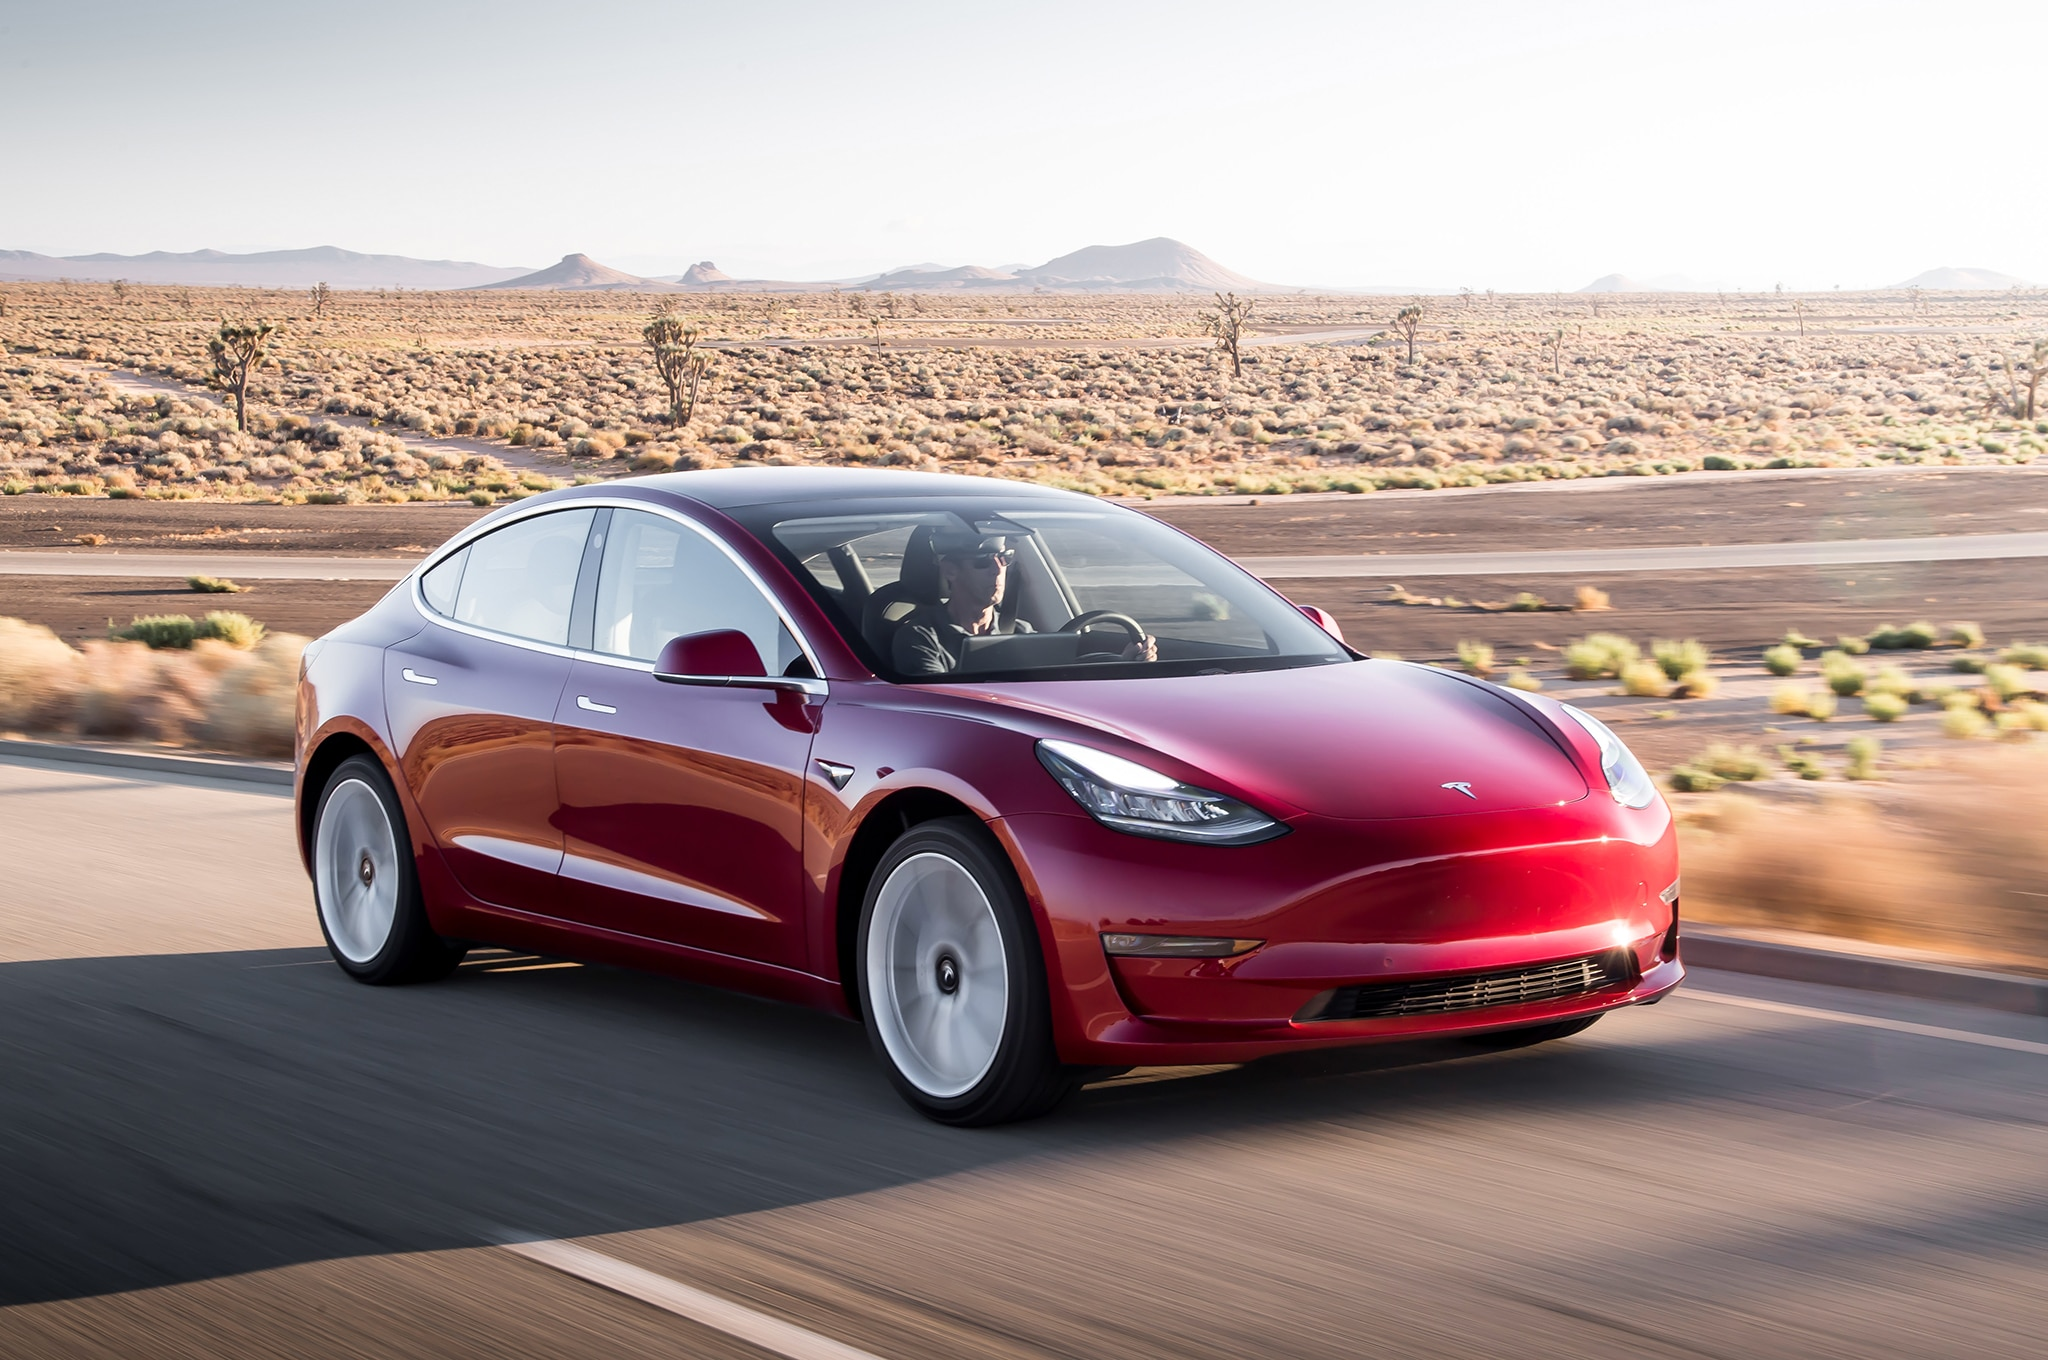
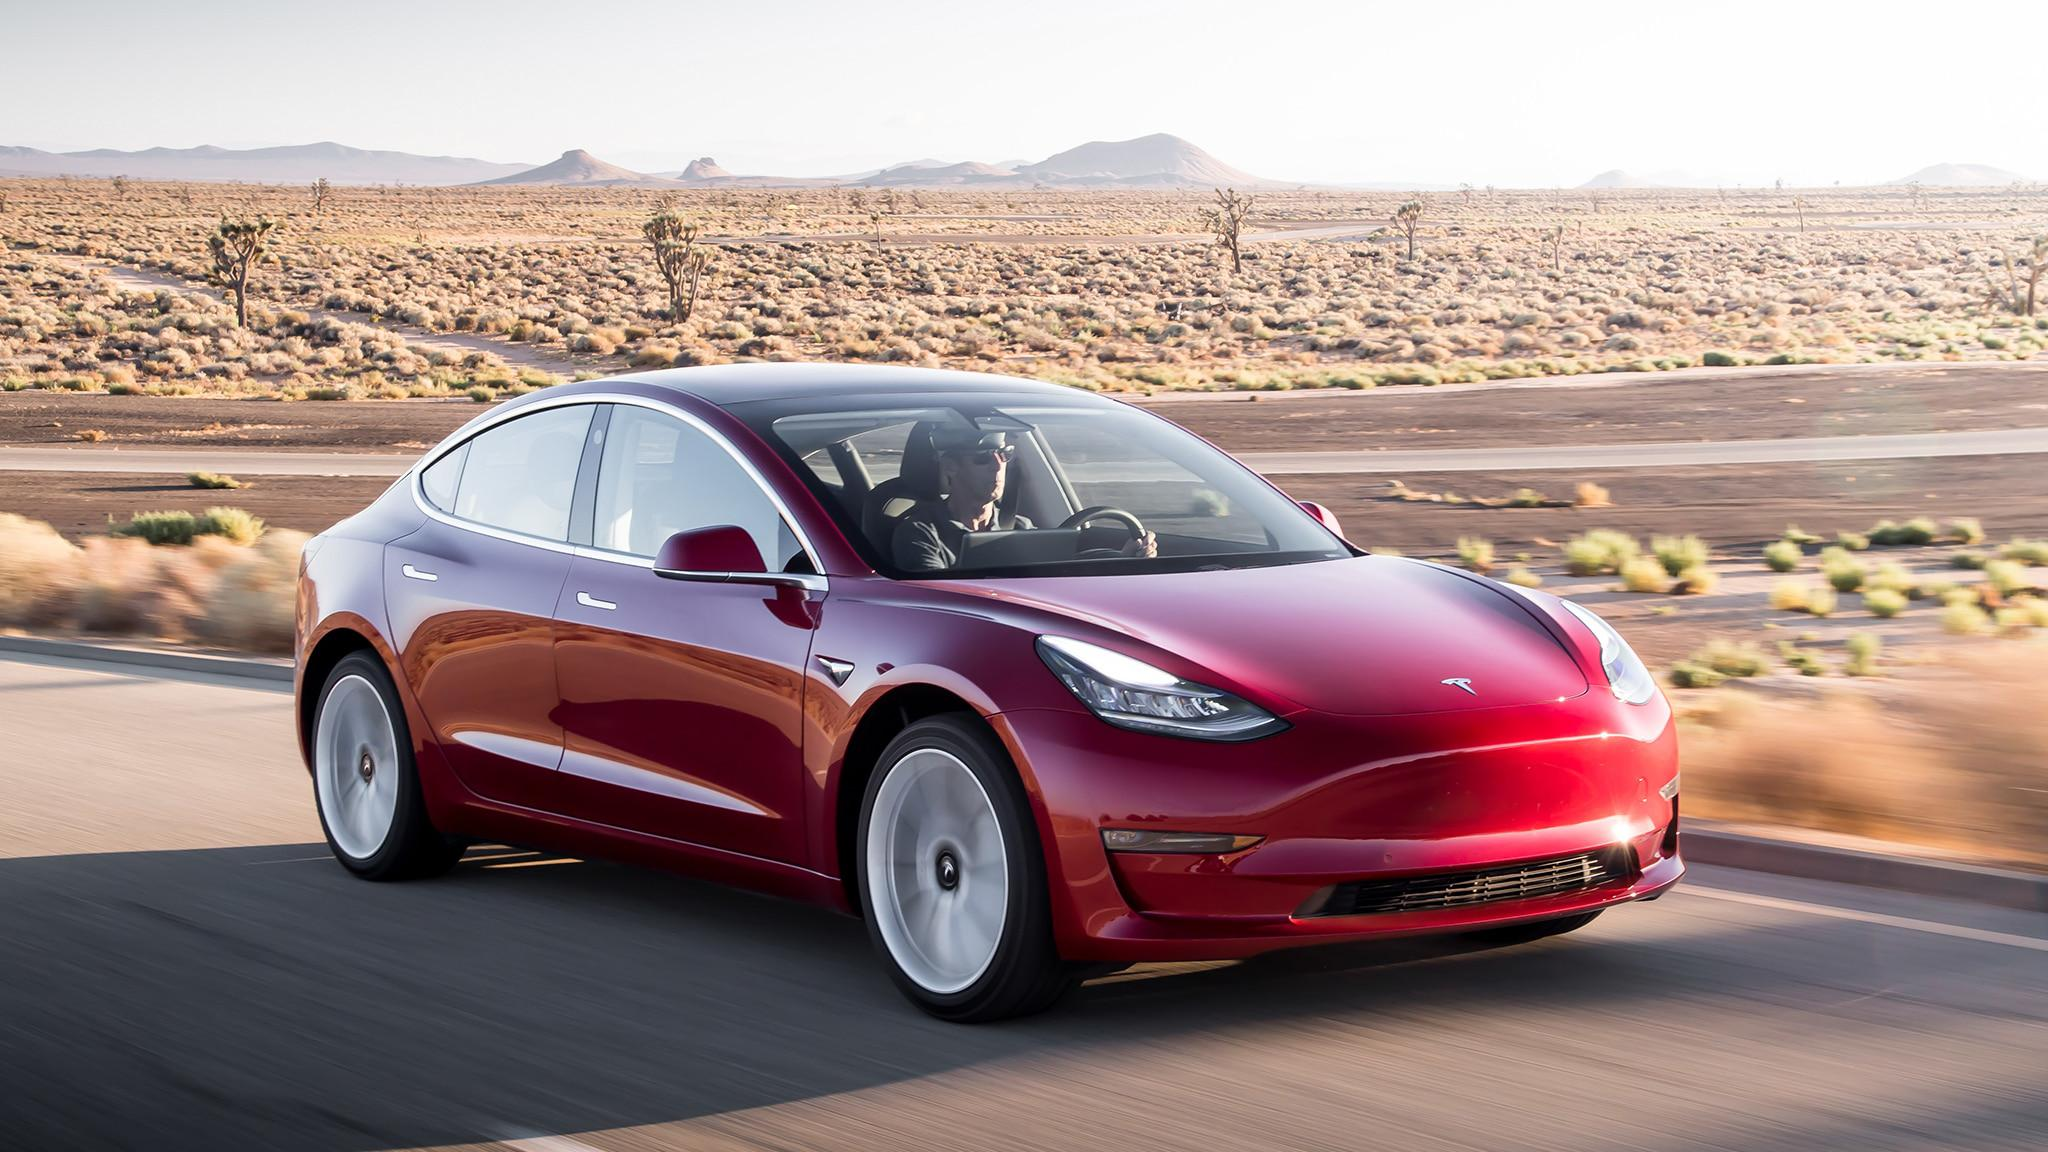
css så og sei ferdig

diff --git a/src/locations.html b/src/locations.html
@@ -18,30 +18,30 @@
       </nav>
     </header>
     <main>
-      <section>
+      <section class="col-3">
         <h2>Marineholmen Bergen</h2>
-        <img src="./img/marineholmen-bergen.jpg" width="500" alt="Marineholmen i Bergen">
+        <img class="loc-img" src="./img/marineholmen-bergen.jpg" alt="Marineholmen i Bergen">
         <div class="mapouter">
           <div class="gmap_canvas">
-            <iframe width="600" height="500" id="gmap-bergen" src="https://maps.google.com/maps?q=marineholmen%20gjestebrygge%20bergen&t=&z=13&ie=UTF8&iwloc=&output=embed"></iframe>
+            <iframe class="map" id="gmap-bergen" src="https://maps.google.com/maps?q=marineholmen%20gjestebrygge%20bergen&t=&z=13&ie=UTF8&iwloc=&output=embed"></iframe>
           </div>
         </div>
       </section>
-      <section>
+      <section class="col-3">
         <h2>Oslo ved akerbrygge</h2>
-        <img src="./img/aker-brygge.jpg" width="500" alt="Aker Brygge i Oslo">
+        <img class="loc-img" src="./img/aker-brygge.jpg" alt="Aker Brygge i Oslo">
         <div class="mapouter">
           <div class="gmap_canvas">
-            <iframe width="600" height="500" id="gmap-oslo" src="https://maps.google.com/maps?q=oslo%20akerbrygge&t=&z=13&ie=UTF8&iwloc=&output=embed"></iframe>
+            <iframe class="map" id="gmap-oslo" src="https://maps.google.com/maps?q=oslo%20akerbrygge&t=&z=13&ie=UTF8&iwloc=&output=embed"></iframe>
           </div>
         </div>
       </section>
-      <section>
+      <section class="col-3">
         <h2>Førde båtklubb</h2>
-        <img src="./img/forde-batklubb.jpg" width="500" alt="Førde Båtklubb">
+        <img class="loc-img" src="./img/forde-batklubb.jpg" alt="Førde Båtklubb">
         <div class="mapouter">
           <div class="gmap_canvas">
-            <iframe width="600" height="500" id="gmap-forde" src="https://maps.google.com/maps?q=f%C3%B8rde%20b%C3%A5tklubb&t=&z=13&ie=UTF8&iwloc=&output=embed"></iframe>
+            <iframe class="map" id="gmap-forde" src="https://maps.google.com/maps?q=f%C3%B8rde%20b%C3%A5tklubb&t=&z=13&ie=UTF8&iwloc=&output=embed"></iframe>
           </div>
         </div>
       </section>

diff --git a/src/membership.html b/src/membership.html
@@ -18,27 +18,21 @@
       </nav>
     </header>
     <main>
-      <h2>Medlemskaper</h2>
-      <table>
-        <tr>
-          <th></th>
-          <th>Bildeling</th>
-          <th>Båtdeling</th>
-          <th>Total</th>
-        </tr>
-        <tr>
-          <th>Inkludert i medlemskapet</th>
-          <td>Tilgang til alle biler fra alle utlånssteder</td>
-          <td>Tilgang til alle båter fra alle utlånssteder</td>
-          <td>Tilgang til alle biler og båter fra alle utlånssteder</td>
-        </tr>
-        <tr>
-          <th>Pris Pr. År</th>
-          <td>15000,-</td>
-          <td>25000,-</td>
-          <td>30000,-</td>
-        </tr>
-      </table>
+      <section class="col-3">
+        <h2>Bildeling</h2>
+        <p class="price">15 000,-</p>
+        <p class="description">Tilgang til alle biler fra alle utlånssteder</p>
+      </section>
+      <section class="col-3">
+        <h2>Båtdeling</h2>
+        <p class="price">25 000,-</p>
+        <p class="description">Tilgang til alle båter fra alle utlånssteder</p>
+      </section>
+      <section class="col-3">
+        <h2>Total</h2>
+        <p class="price">30 000,-</p>
+        <p class="description">Tilgang til alle biler og båter fra alle utlånssteder</p>
+      </section>
     </main>
   </body>
 </html>

diff --git a/src/styles.css b/src/styles.css
@@ -64,6 +64,9 @@ main {
   width: 100%;
   height: calc(100% - var(--header-height));
   display: flex;
+  justify-content: space-around;
+  align-items: center;
+  padding: 8rem 5rem;
 }
 
 a {
@@ -74,12 +77,49 @@ a:hover {
   color: var(--accent-color);
 }
 
+h2 {
+  font-size: 3rem;
+  text-align: center;
+}
+
+section {
+  background-color: var(--secondary-background);
+  display: flex;
+  flex-direction: column;
+  justify-content: space-between;
+  align-items: center;
+  height: 100%;
+  padding: 3rem;
+  border: 2px solid var(--accent-color);
+}
+
+img {
+  width: 100%;
+}
+
+p {
+  text-align: center;
+}
+
+ul {
+  font-size: 2rem;
+}
+
+.col-2 {
+  width: 45%;
+}
+
+.col-3 {
+  width: 30%;
+}
+
 /* FREMSIDE */
 
 #hero-wrapper {
   justify-content: center;
   align-items: center;
   overflow: hidden;
+  padding: 0;
 }
 
 #hero-text {
@@ -101,5 +141,34 @@ a:hover {
 }
 
 .hero-image {
+  width: unset;
   height: 100%;
+}
+
+/* UTLÅNSSTEDER */
+
+.mapouter {
+  width: 100%;
+  height: 40%;
+}
+
+.gmap_canvas {
+  width: 100%;
+  height: 100%;
+}
+
+.map {
+  width: 100%;
+  height: 100%;
+}
+
+/* MEDLEMSKAP */
+
+.price {
+  font-size: 5rem;
+}
+
+.description {
+  width: 70%;
+  font-size: 1.8rem;
 }

diff --git a/src/vehicles.html b/src/vehicles.html
@@ -18,9 +18,9 @@
       </nav>
     </header>
     <main>
-      <section>
+      <section class="col-2">
         <h2>Tesla Model 3</h2>
-        <img src="./img/tesla-model-3.jpg" width="500" alt="Bilde av Tesla Model 3">
+        <img src="./img/tesla-model-3.jpg" alt="Bilde av Tesla Model 3">
         <ul>
           <li><strong>Toppfart:</strong> 261 km/t</li>
           <li><strong>Rekkevidde:</strong> 580 km</li>
@@ -28,9 +28,9 @@
           <li><strong>Firehjulsdrift</strong></li>
         </ul>
       </section>
-      <section>
+      <section class="col-2">
         <h2>Hydrolift X-22 med Evoy Galeforce Outboard</h2>
-        <img src="./img/Hydrolift-X22.png" width="500" alt="Bilde av Hydrolift X-22">
+        <img src="./img/Hydrolift-X22.jpg" alt="Bilde av Hydrolift X-22">
         <ul>
           <li><strong>Motor:</strong> 150 hk</li>
           <li><strong>Bredde:</strong> 2,30 m</li>
